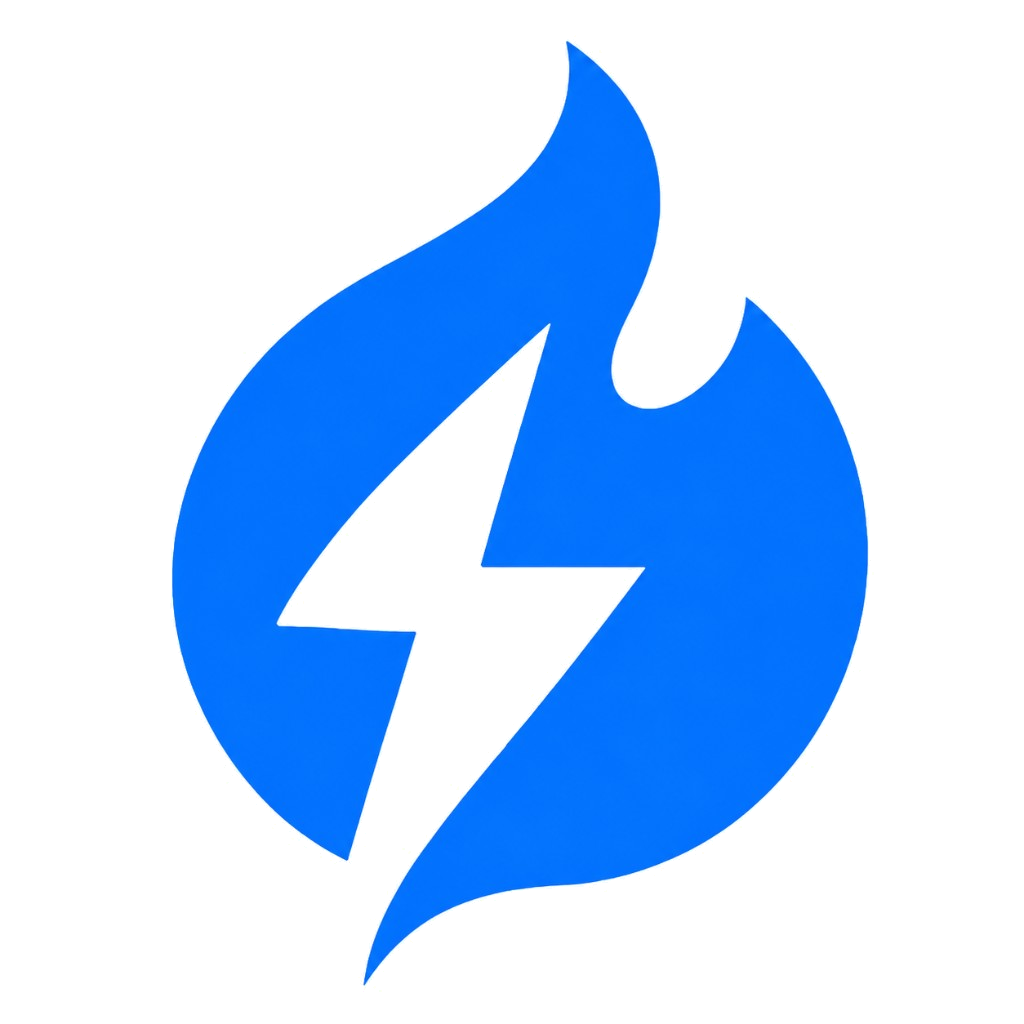
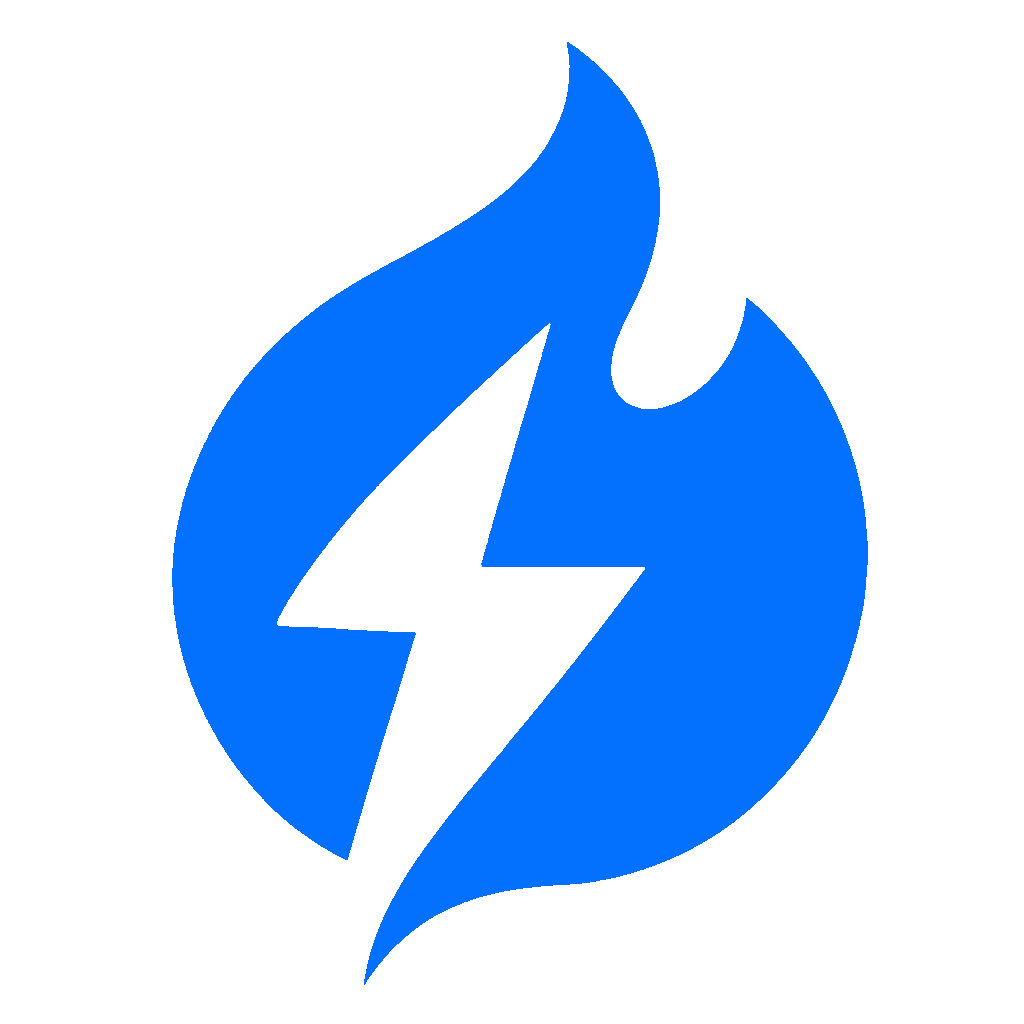
fix:算力图标矢量化

Changed region(s): [[0.7188, 0.2812, 0.75, 0.3125], [0.4688, 0.5312, 0.5, 0.5625], [0.3438, 0.9375, 0.375, 0.9688]]

diff --git a/user-web/src/components/CreditPowerIcon/CreditPowerIcon.vue b/user-web/src/components/CreditPowerIcon/CreditPowerIcon.vue
@@ -1,11 +1,7 @@
 <script setup lang="ts">
 import { computed } from "vue"
 
-import {
-  CREDIT_POWER_ICON_COLOR,
-  CREDIT_POWER_ICON_PATH,
-  CREDIT_POWER_ICON_VIEWBOX,
-} from "./creditPowerIconSvg"
+import creditPowerIconUrl from "@/assets/credit-power-icon.png"
 
 const props = withDefaults(
   defineProps<{
@@ -23,27 +19,13 @@ const style = computed(() => {
 </script>
 
 <template>
-  <svg
-    xmlns="http://www.w3.org/2000/svg"
-    :viewBox="CREDIT_POWER_ICON_VIEWBOX"
-    fill="none"
-    preserveAspectRatio="xMidYMid meet"
-    class="credit-power-icon inline-block shrink-0"
+  <img
+    :src="creditPowerIconUrl"
+    alt=""
+    aria-hidden="true"
+    class="credit-power-icon inline-block shrink-0 object-contain"
     :class="props.class"
     :style="style"
-    aria-hidden="true"
-  >
-    <path
-      :fill="CREDIT_POWER_ICON_COLOR"
-      fill-rule="evenodd"
-      clip-rule="evenodd"
-      :d="CREDIT_POWER_ICON_PATH"
-    />
-  </svg>
+    draggable="false"
+  />
 </template>
-
-<style scoped>
-.credit-power-icon {
-  color: transparent;
-}
-</style>

diff --git a/user-web/src/pages/Dashboard/Page.vue b/user-web/src/pages/Dashboard/Page.vue
@@ -3153,7 +3153,6 @@ onUnmounted(() => {
                   class="dashboard-pollo-generate ml-auto shrink-0"
                   :class="{ 'dashboard-pollo-generate--insufficient': creditInsufficient }"
                   :disabled="!selectedTool || submitting || selectedToolDetailLoading"
-                  :title="liveCreditView.hint"
                   @click.stop="createWithSelectedTool"
                 >
                   <Loader2 v-if="submitting" class="h-4 w-4 animate-spin" />
